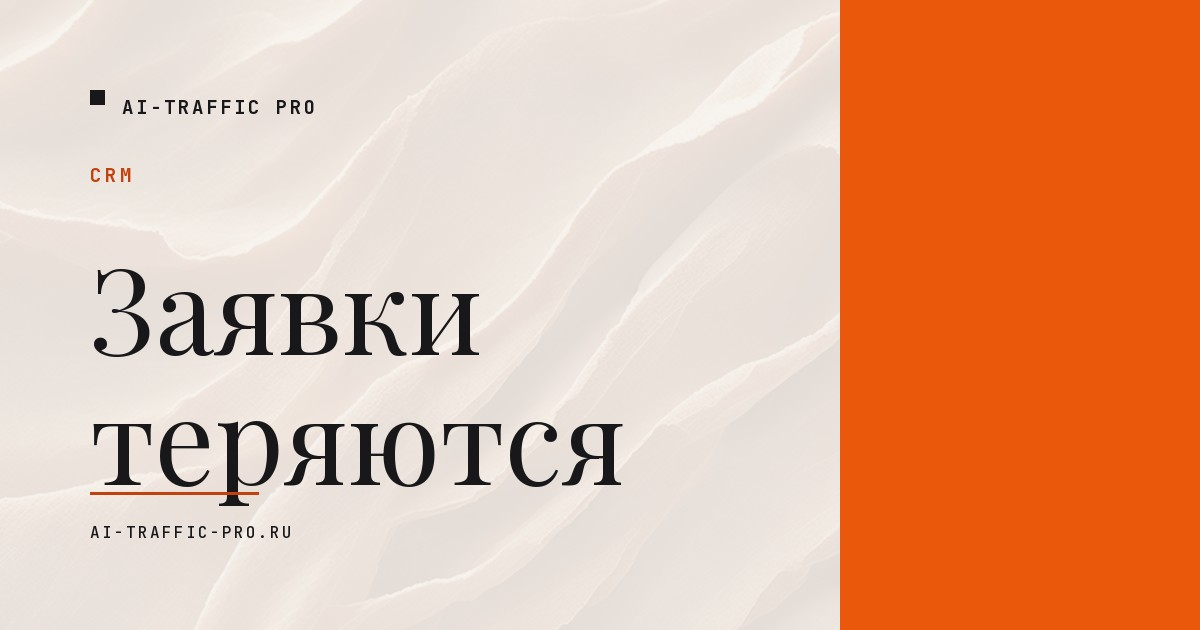
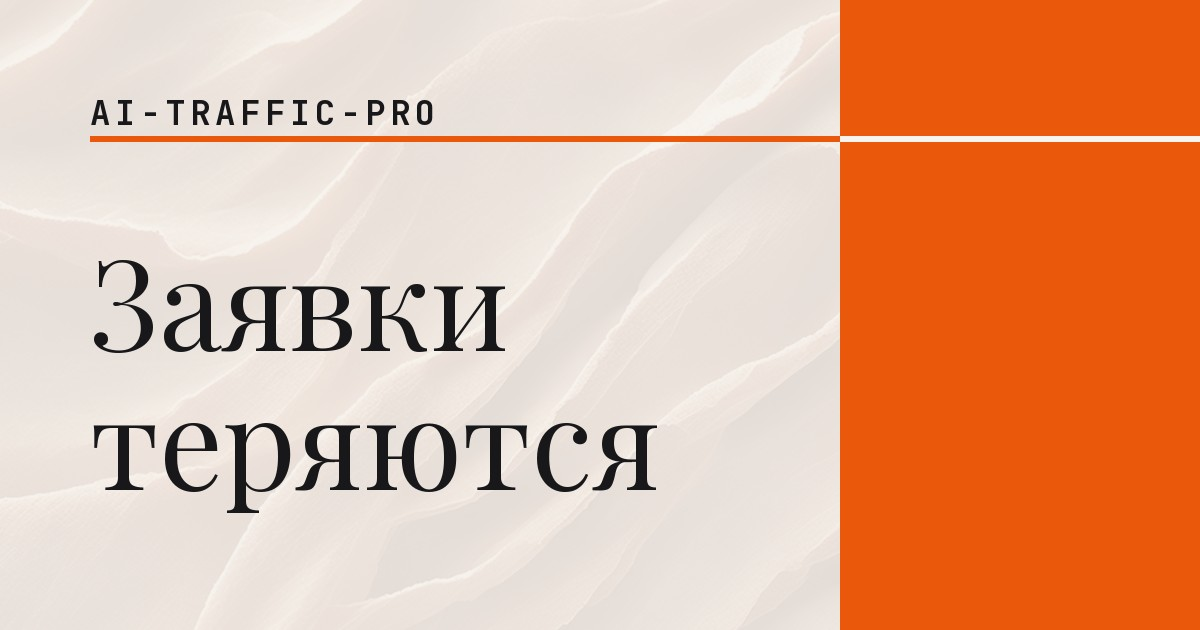
feat(covers): на обложке только марка и заголовок
Рубрика, дата и адрес сайта убраны: на превью шириной 300 px они не
читаются, а место занимают — рубрика и дата и так в тексте поста, адрес
в кнопке.

- марка «AI-TRAFFIC-PRO» крупнее (0.028 ширины), под ней линия;
- линия идёт до правого края и на терракотовой плашке меняется на
  бежевую — оранжевое на оранжевом пропадало;
- квадратные обложки собраны той же функцией без правок.

Пересобраны все 11 статей парами og + square, сборка 25 страниц.

diff --git a/tools/covers/make_cover.py b/tools/covers/make_cover.py
@@ -71,10 +71,12 @@ def fit_cover(img: Image.Image, size: tuple[int, int]) -> Image.Image:
 
 
 def tracked(draw: ImageDraw.ImageDraw, xy, text, fnt, fill, spacing=3):
+    """Пишет текст с разрядкой. Возвращает X после последнего символа."""
     x, y = xy
     for ch in text:
         draw.text((x, y), ch, font=fnt, fill=fill)
         x += draw.textlength(ch, font=fnt) + spacing
+    return x - spacing
 
 
 def wrap(draw, text, fnt, max_width):
@@ -220,8 +222,9 @@ def _poster(size_name: str, title: str, tag: str, date: str, texture: Path, out:
 def _accent(size_name: str, title: str, tag: str, date: str, texture: Path, out: Path) -> Path:
     """Светлый фон + крупный терракотовый блок: цвет сайта работает пятном.
 
-    Пятно цвета держит глаз в ленте, а заголовок остаётся чёрным на светлом —
-    это самый читаемый вариант для длинных русских заголовков.
+    Деталей на обложке ровно две — имя и заголовок. Рубрика, дата и адрес
+    сайта убраны: в ленте они не читаются, а место занимают. Рубрика и дата
+    живут в тексте поста, адрес — в кнопке под ним.
     """
     w, h = SIZES[size_name]
     canvas = Image.new("RGB", (w, h), IVORY)
@@ -241,32 +244,28 @@ def _accent(size_name: str, title: str, tag: str, date: str, texture: Path, out:
         band = [round(w * 0.70), 0, w, h]
     draw.rectangle(band, fill=ACCENT)
 
-    mono = font(FONTS / "JetBrainsMono.ttf", max(15, round(w * 0.0155)), "Bold")
-    mark = max(12, round(w * 0.012))
-    draw.rectangle([pad, pad, pad + mark, pad + mark], fill=INK)
-    tracked(draw, (pad + mark + round(w * 0.015), pad + round(w * 0.003)),
-            "AI-TRAFFIC PRO", mono, INK, spacing=max(2, round(w * 0.0028)))
+    # Имя и терракотовая линия под ним — единственная «марка» обложки.
+    brand = font(FONTS / "JetBrainsMono.ttf", max(24, round(w * 0.028)), "Bold")
+    brand_end = tracked(draw, (pad, pad), "AI-TRAFFIC-PRO", brand, INK,
+                        spacing=max(2, round(w * 0.004)))
+    # Линия идёт до правого края: это не подчёркивание слова, а «горизонт»,
+    # отбивающий марку от заголовка. На терракотовой плашке она меняет цвет
+    # на бежевый — иначе оранжевое на оранжевом исчезает.
+    line_y = pad + round(brand.size * 1.42)
+    line_w = max(6, round(h * 0.0085))
+    band_x = band[0] if band[0] > 0 else w
+    draw.line([(pad, line_y), (band_x, line_y)], fill=ACCENT, width=line_w)
+    if band_x < w:
+        draw.line([(band_x, line_y), (w, line_y)], fill=IVORY, width=line_w)
 
-    tracked(draw, (pad, pad + round(h * 0.115)), tag.upper(), mono, TERRACOTTA,
-            spacing=max(2, round(w * 0.003)))
-
-    # 0.58 от ширины — это ~20 px воздуха до плашки: раньше заголовок
-    # прилипал к цветному блоку и на превью казался обрезанным.
+    # Заголовок — главный объект: 0.52 ширины оставляет воздух до плашки.
     box_w = round(w * (0.52 if size_name != "square" else 0.85))
     fnt, lines, size = fit_title(draw, title, box_w, 4,
-                                 start=round(w * 0.098), floor=round(w * 0.058))
-    y = round(h * 0.36) if size_name != "square" else round(h * 0.38)
+                                 start=round(w * 0.105), floor=round(w * 0.058))
+    y = round(h * 0.34) if size_name != "square" else round(h * 0.36)
     for line in lines:
         draw.text((pad, y), line, font=fnt, fill=INK)
         y += round(size * 1.1)
-
-    # Адрес — на светлой части, чтобы не спорить с блоком
-    site_y = h - pad - round(h * 0.03) if size_name != "square" else round(h * 0.80)
-    draw.line([(pad, site_y - round(h * 0.045)), (pad + round(w * 0.14), site_y - round(h * 0.045))],
-              fill=TERRACOTTA, width=max(3, round(h * 0.005)))
-    tracked(draw, (pad, site_y), "AI-TRAFFIC-PRO.RU",
-            font(FONTS / "JetBrainsMono.ttf", max(13, round(w * 0.0135)), "Medium"), INK,
-            spacing=max(1, round(w * 0.0017)))
 
     return _save(canvas, out)
 

diff --git a/ACTIVE_TASKS.md b/ACTIVE_TASKS.md
@@ -196,7 +196,9 @@
   `#18181b`, terracotta `#c2410c` / `#ea580c`. Выбран стиль `accent`:
   светлый фон + крупная терракотовая плашка. Все 11 статей пересобраны
   парами og 1200×630 + square 1080×1080 через `tools/covers/make_all.py`
-  (единый список слагов, заголовков и рубрик). Первый пост в канале
+  (единый список слагов, заголовков и рубрик). Деталей на обложке две —
+  «AI-TRAFFIC-PRO» с линией и заголовок; линия идёт до правого края и на
+  терракотовой плашке меняет цвет на бежевый. Первый пост в канале
   опубликован со старой обложкой — перекрывается следующей публикацией.
 
 - [x] **1.9 Аудит индексируемости 18 URL** — ✅ **закрыто 09.11.2026 (Verified
